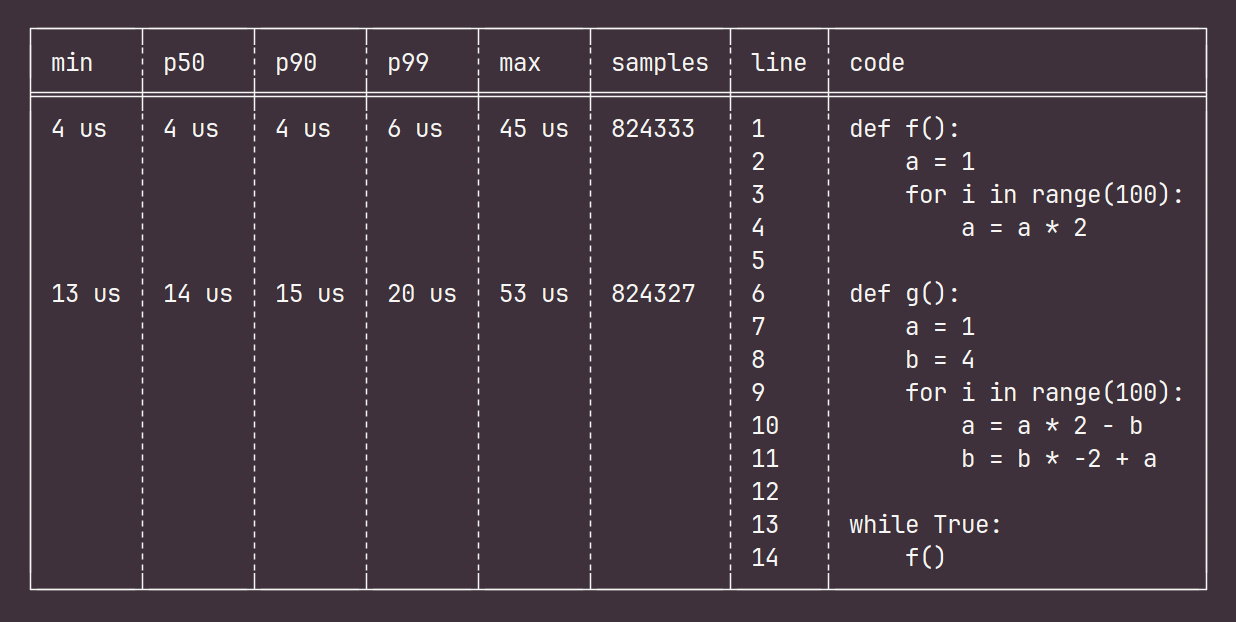
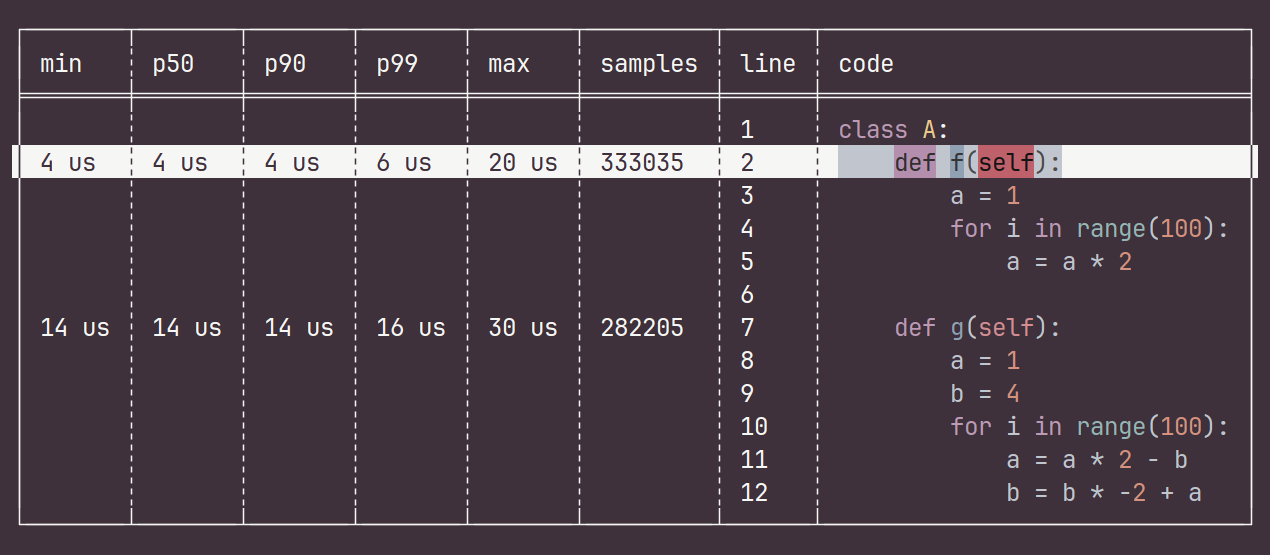
feat: show profile target

diff --git a/examples/test_b.py b/examples/test_b.py
@@ -1,64 +1,12 @@
-def f():
-    a = 1
-    for i in range(100):
-        a = a * 2
+class A:
+    def f(self):
+        a = 1
+        for i in range(100):
+            a = a * 2
 
-def g():
-    a = 1
-    b = 4
-    for i in range(100):
-        a = a * 2 - b
-        b = b * -2 + a
-
-def scene_stealer1():
-    """Lorem ipsum dolor sit amet, consectetur adipiscing elit, sed do eiusmod tempor incididunt ut labore et dolore magna aliqua. Ut enim ad minim veniam, quis nostrud exercitation ullamco laboris nisi ut aliquip ex ea commodo consequat. Duis aute irure dolor in reprehenderit in voluptate velit esse cillum dolore eu fugiat nulla pariatur. Excepteur sint occaecat cupidatat non proident, sunt in culpa qui officia deserunt mollit anim id est laborum."""
-
-def scene_stealer2():
-    """Lorem ipsum dolor sit amet, consectetur adipiscing elit, sed do eiusmod tempor incididunt ut labore et dolore magna aliqua. Ut enim ad minim veniam, quis nostrud exercitation ullamco laboris nisi ut aliquip ex ea commodo consequat. Duis aute irure dolor in reprehenderit in voluptate velit esse cillum dolore eu fugiat nulla pariatur. Excepteur sint occaecat cupidatat non proident, sunt in culpa qui officia deserunt mollit anim id est laborum."""
-
-def scene_stealer3():
-    """Lorem ipsum dolor sit amet, consectetur adipiscing elit, sed do eiusmod tempor incididunt ut labore et dolore magna aliqua. Ut enim ad minim veniam, quis nostrud exercitation ullamco laboris nisi ut aliquip ex ea commodo consequat. Duis aute irure dolor in reprehenderit in voluptate velit esse cillum dolore eu fugiat nulla pariatur. Excepteur sint occaecat cupidatat non proident, sunt in culpa qui officia deserunt mollit anim id est laborum."""
-
-def scene_stealer4():
-    """Lorem ipsum dolor sit amet, consectetur adipiscing elit, sed do eiusmod tempor incididunt ut labore et dolore magna aliqua. Ut enim ad minim veniam, quis nostrud exercitation ullamco laboris nisi ut aliquip ex ea commodo consequat. Duis aute irure dolor in reprehenderit in voluptate velit esse cillum dolore eu fugiat nulla pariatur. Excepteur sint occaecat cupidatat non proident, sunt in culpa qui officia deserunt mollit anim id est laborum."""
-
-def scene_stealer5():
-    """Lorem ipsum dolor sit amet, consectetur adipiscing elit, sed do eiusmod tempor incididunt ut labore et dolore magna aliqua. Ut enim ad minim veniam, quis nostrud exercitation ullamco laboris nisi ut aliquip ex ea commodo consequat. Duis aute irure dolor in reprehenderit in voluptate velit esse cillum dolore eu fugiat nulla pariatur. Excepteur sint occaecat cupidatat non proident, sunt in culpa qui officia deserunt mollit anim id est laborum."""
-
-def scene_stealer6():
-    """Lorem ipsum dolor sit amet, consectetur adipiscing elit, sed do eiusmod tempor incididunt ut labore et dolore magna aliqua. Ut enim ad minim veniam, quis nostrud exercitation ullamco laboris nisi ut aliquip ex ea commodo consequat. Duis aute irure dolor in reprehenderit in voluptate velit esse cillum dolore eu fugiat nulla pariatur. Excepteur sint occaecat cupidatat non proident, sunt in culpa qui officia deserunt mollit anim id est laborum."""
-
-def scene_stealer7():
-    """Lorem ipsum dolor sit amet, consectetur adipiscing elit, sed do eiusmod tempor incididunt ut labore et dolore magna aliqua. Ut enim ad minim veniam, quis nostrud exercitation ullamco laboris nisi ut aliquip ex ea commodo consequat. Duis aute irure dolor in reprehenderit in voluptate velit esse cillum dolore eu fugiat nulla pariatur. Excepteur sint occaecat cupidatat non proident, sunt in culpa qui officia deserunt mollit anim id est laborum."""
-
-def scene_stealer8():
-    """Lorem ipsum dolor sit amet, consectetur adipiscing elit, sed do eiusmod tempor incididunt ut labore et dolore magna aliqua. Ut enim ad minim veniam, quis nostrud exercitation ullamco laboris nisi ut aliquip ex ea commodo consequat. Duis aute irure dolor in reprehenderit in voluptate velit esse cillum dolore eu fugiat nulla pariatur. Excepteur sint occaecat cupidatat non proident, sunt in culpa qui officia deserunt mollit anim id est laborum."""
-
-def scene_stealer9():
-    """Lorem ipsum dolor sit amet, consectetur adipiscing elit, sed do eiusmod tempor incididunt ut labore et dolore magna aliqua. Ut enim ad minim veniam, quis nostrud exercitation ullamco laboris nisi ut aliquip ex ea commodo consequat. Duis aute irure dolor in reprehenderit in voluptate velit esse cillum dolore eu fugiat nulla pariatur. Excepteur sint occaecat cupidatat non proident, sunt in culpa qui officia deserunt mollit anim id est laborum."""
-
-def scene_stealer10():
-    """Lorem ipsum dolor sit amet, consectetur adipiscing elit, sed do eiusmod tempor incididunt ut labore et dolore magna aliqua. Ut enim ad minim veniam, quis nostrud exercitation ullamco laboris nisi ut aliquip ex ea commodo consequat. Duis aute irure dolor in reprehenderit in voluptate velit esse cillum dolore eu fugiat nulla pariatur. Excepteur sint occaecat cupidatat non proident, sunt in culpa qui officia deserunt mollit anim id est laborum."""
-
-"""Lorem ipsum dolor sit amet, consectetur adipiscing elit, sed do eiusmod tempor incididunt ut labore et dolore magna aliqua. Ut enim ad minim veniam, quis nostrud exercitation ullamco laboris nisi ut aliquip ex ea commodo consequat. Duis aute irure dolor in reprehenderit in voluptate velit esse cillum dolore eu fugiat nulla pariatur. Excepteur sint occaecat cupidatat non proident, sunt in culpa qui officia deserunt mollit anim id est laborum."""
-"""Lorem ipsum dolor sit amet, consectetur adipiscing elit, sed do eiusmod tempor incididunt ut labore et dolore magna aliqua. Ut enim ad minim veniam, quis nostrud exercitation ullamco laboris nisi ut aliquip ex ea commodo consequat. Duis aute irure dolor in reprehenderit in voluptate velit esse cillum dolore eu fugiat nulla pariatur. Excepteur sint occaecat cupidatat non proident, sunt in culpa qui officia deserunt mollit anim id est laborum."""
-"""Lorem ipsum dolor sit amet, consectetur adipiscing elit, sed do eiusmod tempor incididunt ut labore et dolore magna aliqua. Ut enim ad minim veniam, quis nostrud exercitation ullamco laboris nisi ut aliquip ex ea commodo consequat. Duis aute irure dolor in reprehenderit in voluptate velit esse cillum dolore eu fugiat nulla pariatur. Excepteur sint occaecat cupidatat non proident, sunt in culpa qui officia deserunt mollit anim id est laborum."""
-"""Lorem ipsum dolor sit amet, consectetur adipiscing elit, sed do eiusmod tempor incididunt ut labore et dolore magna aliqua. Ut enim ad minim veniam, quis nostrud exercitation ullamco laboris nisi ut aliquip ex ea commodo consequat. Duis aute irure dolor in reprehenderit in voluptate velit esse cillum dolore eu fugiat nulla pariatur. Excepteur sint occaecat cupidatat non proident, sunt in culpa qui officia deserunt mollit anim id est laborum."""
-"""Lorem ipsum dolor sit amet, consectetur adipiscing elit, sed do eiusmod tempor incididunt ut labore et dolore magna aliqua. Ut enim ad minim veniam, quis nostrud exercitation ullamco laboris nisi ut aliquip ex ea commodo consequat. Duis aute irure dolor in reprehenderit in voluptate velit esse cillum dolore eu fugiat nulla pariatur. Excepteur sint occaecat cupidatat non proident, sunt in culpa qui officia deserunt mollit anim id est laborum."""
-"""Lorem ipsum dolor sit amet, consectetur adipiscing elit, sed do eiusmod tempor incididunt ut labore et dolore magna aliqua. Ut enim ad minim veniam, quis nostrud exercitation ullamco laboris nisi ut aliquip ex ea commodo consequat. Duis aute irure dolor in reprehenderit in voluptate velit esse cillum dolore eu fugiat nulla pariatur. Excepteur sint occaecat cupidatat non proident, sunt in culpa qui officia deserunt mollit anim id est laborum."""
-"""Lorem ipsum dolor sit amet, consectetur adipiscing elit, sed do eiusmod tempor incididunt ut labore et dolore magna aliqua. Ut enim ad minim veniam, quis nostrud exercitation ullamco laboris nisi ut aliquip ex ea commodo consequat. Duis aute irure dolor in reprehenderit in voluptate velit esse cillum dolore eu fugiat nulla pariatur. Excepteur sint occaecat cupidatat non proident, sunt in culpa qui officia deserunt mollit anim id est laborum."""
-"""Lorem ipsum dolor sit amet, consectetur adipiscing elit, sed do eiusmod tempor incididunt ut labore et dolore magna aliqua. Ut enim ad minim veniam, quis nostrud exercitation ullamco laboris nisi ut aliquip ex ea commodo consequat. Duis aute irure dolor in reprehenderit in voluptate velit esse cillum dolore eu fugiat nulla pariatur. Excepteur sint occaecat cupidatat non proident, sunt in culpa qui officia deserunt mollit anim id est laborum."""
-"""Lorem ipsum dolor sit amet, consectetur adipiscing elit, sed do eiusmod tempor incididunt ut labore et dolore magna aliqua. Ut enim ad minim veniam, quis nostrud exercitation ullamco laboris nisi ut aliquip ex ea commodo consequat. Duis aute irure dolor in reprehenderit in voluptate velit esse cillum dolore eu fugiat nulla pariatur. Excepteur sint occaecat cupidatat non proident, sunt in culpa qui officia deserunt mollit anim id est laborum."""
-"""Lorem ipsum dolor sit amet, consectetur adipiscing elit, sed do eiusmod tempor incididunt ut labore et dolore magna aliqua. Ut enim ad minim veniam, quis nostrud exercitation ullamco laboris nisi ut aliquip ex ea commodo consequat. Duis aute irure dolor in reprehenderit in voluptate velit esse cillum dolore eu fugiat nulla pariatur. Excepteur sint occaecat cupidatat non proident, sunt in culpa qui officia deserunt mollit anim id est laborum."""
-"""Lorem ipsum dolor sit amet, consectetur adipiscing elit, sed do eiusmod tempor incididunt ut labore et dolore magna aliqua. Ut enim ad minim veniam, quis nostrud exercitation ullamco laboris nisi ut aliquip ex ea commodo consequat. Duis aute irure dolor in reprehenderit in voluptate velit esse cillum dolore eu fugiat nulla pariatur. Excepteur sint occaecat cupidatat non proident, sunt in culpa qui officia deserunt mollit anim id est laborum."""
-"""Lorem ipsum dolor sit amet, consectetur adipiscing elit, sed do eiusmod tempor incididunt ut labore et dolore magna aliqua. Ut enim ad minim veniam, quis nostrud exercitation ullamco laboris nisi ut aliquip ex ea commodo consequat. Duis aute irure dolor in reprehenderit in voluptate velit esse cillum dolore eu fugiat nulla pariatur. Excepteur sint occaecat cupidatat non proident, sunt in culpa qui officia deserunt mollit anim id est laborum."""
-"""Lorem ipsum dolor sit amet, consectetur adipiscing elit, sed do eiusmod tempor incididunt ut labore et dolore magna aliqua. Ut enim ad minim veniam, quis nostrud exercitation ullamco laboris nisi ut aliquip ex ea commodo consequat. Duis aute irure dolor in reprehenderit in voluptate velit esse cillum dolore eu fugiat nulla pariatur. Excepteur sint occaecat cupidatat non proident, sunt in culpa qui officia deserunt mollit anim id est laborum."""
-"""Lorem ipsum dolor sit amet, consectetur adipiscing elit, sed do eiusmod tempor incididunt ut labore et dolore magna aliqua. Ut enim ad minim veniam, quis nostrud exercitation ullamco laboris nisi ut aliquip ex ea commodo consequat. Duis aute irure dolor in reprehenderit in voluptate velit esse cillum dolore eu fugiat nulla pariatur. Excepteur sint occaecat cupidatat non proident, sunt in culpa qui officia deserunt mollit anim id est laborum."""
-"""Lorem ipsum dolor sit amet, consectetur adipiscing elit, sed do eiusmod tempor incididunt ut labore et dolore magna aliqua. Ut enim ad minim veniam, quis nostrud exercitation ullamco laboris nisi ut aliquip ex ea commodo consequat. Duis aute irure dolor in reprehenderit in voluptate velit esse cillum dolore eu fugiat nulla pariatur. Excepteur sint occaecat cupidatat non proident, sunt in culpa qui officia deserunt mollit anim id est laborum."""
-"""Lorem ipsum dolor sit amet, consectetur adipiscing elit, sed do eiusmod tempor incididunt ut labore et dolore magna aliqua. Ut enim ad minim veniam, quis nostrud exercitation ullamco laboris nisi ut aliquip ex ea commodo consequat. Duis aute irure dolor in reprehenderit in voluptate velit esse cillum dolore eu fugiat nulla pariatur. Excepteur sint occaecat cupidatat non proident, sunt in culpa qui officia deserunt mollit anim id est laborum."""
-"""Lorem ipsum dolor sit amet, consectetur adipiscing elit, sed do eiusmod tempor incididunt ut labore et dolore magna aliqua. Ut enim ad minim veniam, quis nostrud exercitation ullamco laboris nisi ut aliquip ex ea commodo consequat. Duis aute irure dolor in reprehenderit in voluptate velit esse cillum dolore eu fugiat nulla pariatur. Excepteur sint occaecat cupidatat non proident, sunt in culpa qui officia deserunt mollit anim id est laborum."""
-"""Lorem ipsum dolor sit amet, consectetur adipiscing elit, sed do eiusmod tempor incididunt ut labore et dolore magna aliqua. Ut enim ad minim veniam, quis nostrud exercitation ullamco laboris nisi ut aliquip ex ea commodo consequat. Duis aute irure dolor in reprehenderit in voluptate velit esse cillum dolore eu fugiat nulla pariatur. Excepteur sint occaecat cupidatat non proident, sunt in culpa qui officia deserunt mollit anim id est laborum."""
-"""Lorem ipsum dolor sit amet, consectetur adipiscing elit, sed do eiusmod tempor incididunt ut labore et dolore magna aliqua. Ut enim ad minim veniam, quis nostrud exercitation ullamco laboris nisi ut aliquip ex ea commodo consequat. Duis aute irure dolor in reprehenderit in voluptate velit esse cillum dolore eu fugiat nulla pariatur. Excepteur sint occaecat cupidatat non proident, sunt in culpa qui officia deserunt mollit anim id est laborum."""
-"""Lorem ipsum dolor sit amet, consectetur adipiscing elit, sed do eiusmod tempor incididunt ut labore et dolore magna aliqua. Ut enim ad minim veniam, quis nostrud exercitation ullamco laboris nisi ut aliquip ex ea commodo consequat. Duis aute irure dolor in reprehenderit in voluptate velit esse cillum dolore eu fugiat nulla pariatur. Excepteur sint occaecat cupidatat non proident, sunt in culpa qui officia deserunt mollit anim id est laborum."""
-"""Lorem ipsum dolor sit amet, consectetur adipiscing elit, sed do eiusmod tempor incididunt ut labore et dolore magna aliqua. Ut enim ad minim veniam, quis nostrud exercitation ullamco laboris nisi ut aliquip ex ea commodo consequat. Duis aute irure dolor in reprehenderit in voluptate velit esse cillum dolore eu fugiat nulla pariatur. Excepteur sint occaecat cupidatat non proident, sunt in culpa qui officia deserunt mollit anim id est laborum."""
-"""Lorem ipsum dolor sit amet, consectetur adipiscing elit, sed do eiusmod tempor incididunt ut labore et dolore magna aliqua. Ut enim ad minim veniam, quis nostrud exercitation ullamco laboris nisi ut aliquip ex ea commodo consequat. Duis aute irure dolor in reprehenderit in voluptate velit esse cillum dolore eu fugiat nulla pariatur. Excepteur sint occaecat cupidatat non proident, sunt in culpa qui officia deserunt mollit anim id est laborum."""
+    def g(self):
+        a = 1
+        b = 4
+        for i in range(100):
+            a = a * 2 - b
+            b = b * -2 + a

diff --git a/src/tui/mod.rs b/src/tui/mod.rs
@@ -9,7 +9,7 @@ use color_eyre::{
     eyre::{Context as ContextTrait, ContextCompat},
     Result,
 };
-use comfy_table::presets::UTF8_FULL_CONDENSED;
+use comfy_table::{presets::UTF8_FULL_CONDENSED, CellAlignment};
 use ratatui::{backend::CrosstermBackend, widgets::Clear};
 use tonari_actor::{Actor, Addr, Context};
 
@@ -36,6 +36,7 @@ pub enum TuiMessage {
 }
 
 pub struct Tui {
+    header_state: widgets::header::HeaderState,
     profiler_addr: Addr<crate::profiler::Profiler>,
     terminal: Terminal,
     code: Vec<String>,
@@ -91,6 +92,17 @@ impl Tui {
             format!("{filename} ({dir}/)")
         };
         let num_lines = code.len();
+
+        let header_state = widgets::header::HeaderState {
+            pid: if config.pid == -1 {
+                "ALL".to_string()
+            } else {
+                config.pid.to_string()
+            },
+            python_bin: config.python_bin.clone(),
+            code_path: config.python_code.clone(),
+        };
+
         Ok(Self {
             profiler_addr,
             terminal,
@@ -98,20 +110,45 @@ impl Tui {
             _title: title,
             summary_map: Default::default(),
             scroll: Scroll::new(num_lines, 10),
+            header_state,
         })
     }
 
     pub fn render(&mut self) -> Result<()> {
         self.terminal.draw(|frame| {
-            // render parameters
+            frame.render_widget(Clear, frame.size());
 
+            // render parameters
+            let mut area = frame.size();
+            area.height = 10;
+            let mut table = comfy_table::Table::new();
+            table.load_preset(UTF8_FULL_CONDENSED);
+
+            table.add_row(["pid", &self.header_state.pid]);
+            table.add_row(["python", &self.header_state.python_bin]);
+            table.add_row(["code", &self.header_state.code_path]);
+            frame.render_widget(
+                widgets::table::Table {
+                    table,
+                    highlight_row: 999,
+                },
+                area,
+            );
             // render main table
+            let mut area = frame.size();
+            area.y += 5;
+            area.height -= 5;
             let mut table = comfy_table::Table::new();
             table.load_preset(UTF8_FULL_CONDENSED);
             table.set_header(vec![
                 "min", "p50", "p90", "p99", "max", "samples", "line", "code",
             ]);
-            self.scroll.resize_height(frame.size().height as usize - 4);
+            table
+                .column_mut(6)
+                .unwrap()
+                .set_cell_alignment(CellAlignment::Right);
+
+            self.scroll.resize_height(area.height as usize - 4);
             for i in self.scroll.range() {
                 if let Some(summary) = self.summary_map.get(&i) {
                     table.add_row([
@@ -133,8 +170,7 @@ impl Tui {
                 table,
                 highlight_row: self.scroll.current_line - self.scroll.scroll_offset,
             };
-            frame.render_widget(Clear, frame.size());
-            frame.render_widget(table, frame.size());
+            frame.render_widget(table, area);
         })?;
         Ok(())
     }

diff --git a/src/tui/widgets/header.rs b/src/tui/widgets/header.rs
@@ -1,0 +1,36 @@
+use ratatui::{
+    style::Style,
+    widgets::{Block, Borders, StatefulWidget, Widget},
+};
+
+pub struct HeaderState {
+    pub pid: String,
+    pub python_bin: String,
+    pub code_path: String,
+}
+pub struct Header;
+
+impl StatefulWidget for Header {
+    type State = HeaderState;
+
+    fn render(
+        self,
+        area: ratatui::layout::Rect,
+        buf: &mut ratatui::buffer::Buffer,
+        state: &mut Self::State,
+    ) {
+        Block::default().borders(Borders::ALL).render(area, buf);
+        buf.set_string(
+            area.x + 2,
+            area.y + 1,
+            format!("pid: {} / python binary: {}", state.pid, state.python_bin),
+            Style::default(),
+        );
+        buf.set_string(
+            area.x + 2,
+            area.y + 2,
+            format!("code: {}", state.code_path),
+            Style::default(),
+        );
+    }
+}

diff --git a/src/tui/widgets/table.rs b/src/tui/widgets/table.rs
@@ -26,19 +26,6 @@ impl Widget for Table {
                 let line = &text.lines[0];
                 buf.set_line(area.x, y, line, area.width);
             }
-
-            // buf.set_stringn(
-            //     area.x,
-            //     y,
-            //     line,
-            //     area.width as usize,
-            //     if y == highlight_y {
-            //         ratatui::style::Style::default()
-            //             .add_modifier(ratatui::style::Modifier::REVERSED)
-            //     } else {
-            //         ratatui::style::Style::default()
-            //     },
-            // );
         }
     }
 }

diff --git a/examples/test_a.py b/examples/test_a.py
@@ -1,9 +1,12 @@
-from test_b import f, g
+from test_b import A
+
+a = A()
 
 
 def h():
-    f()
-    g()
+    a.f()
+    a.g()
+
 
 while True:
     h()

diff --git a/src/tui/widgets/mod.rs b/src/tui/widgets/mod.rs
@@ -1,2 +1,3 @@
 pub mod column_config;
+pub mod header;
 pub mod table;
